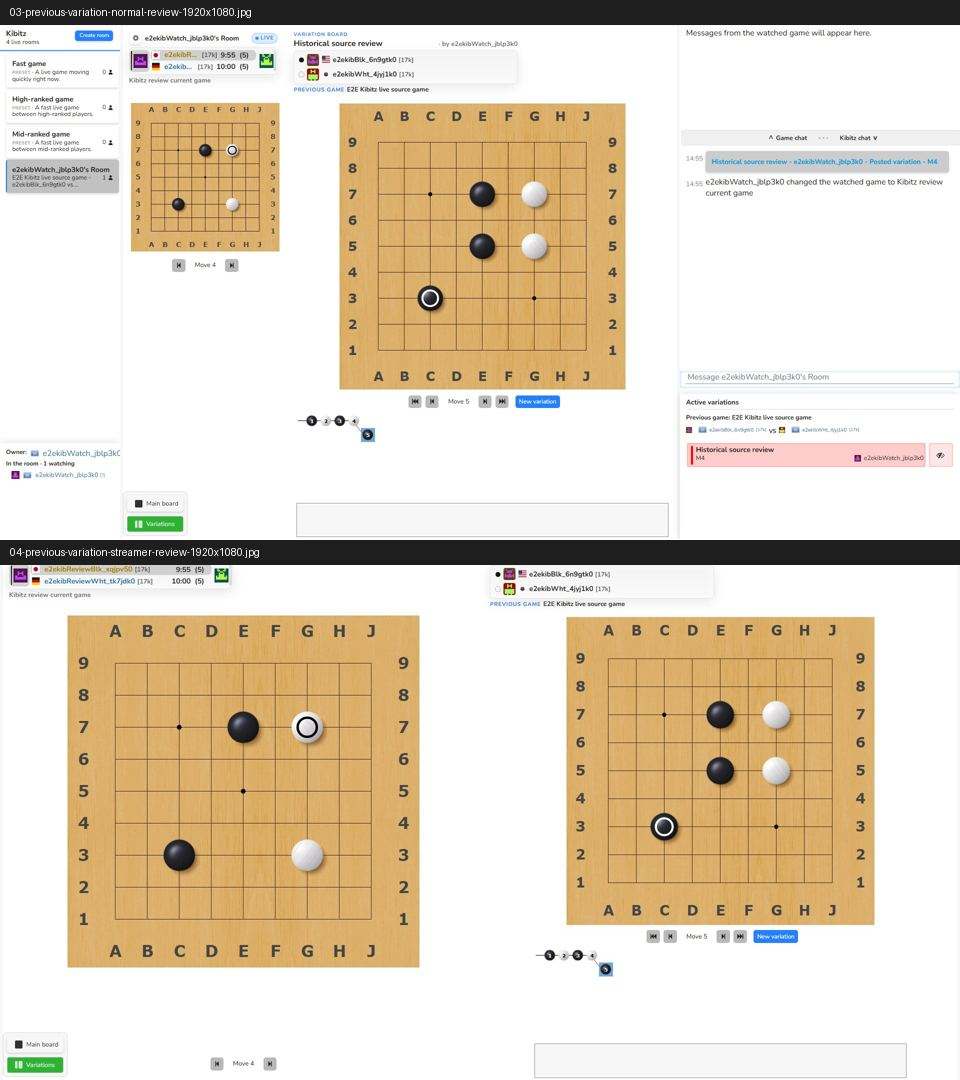
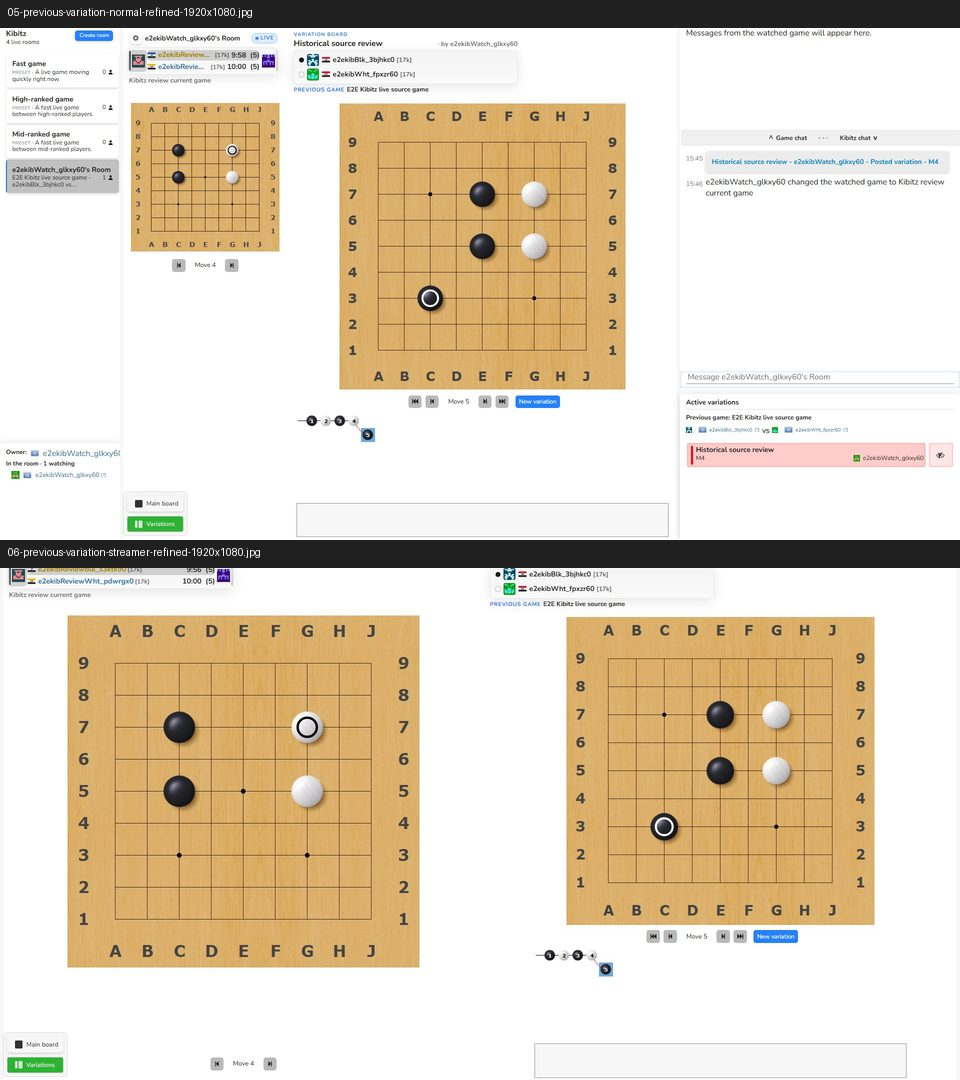
refine kibitz compact scoreboard spacing

diff --git a/src/views/Kibitz/KibitzDesktopMainGameScoreboard.css b/src/views/Kibitz/KibitzDesktopMainGameScoreboard.css
@@ -343,24 +343,44 @@
 }
 
 .KibitzDesktopMainGameScoreboard--compare .KibitzDesktopMainGameScoreboard-inner {
-    padding: 0.3rem 0.55rem;
+    column-gap: 0.28rem;
+    padding: 0.3rem 0.35rem;
     border-radius: 8px;
 }
 
 .KibitzDesktopMainGameScoreboard--compare .KibitzDesktopMainGameScoreboard-avatarButton,
 .KibitzDesktopMainGameScoreboard--compare .KibitzDesktopMainGameScoreboard-avatar,
 .KibitzDesktopMainGameScoreboard--compare .KibitzDesktopMainGameScoreboard-avatarImage {
-    height: 1.75rem;
-    width: 1.75rem;
+    height: 1.625rem;
+    width: 1.625rem;
 }
 
 .KibitzDesktopMainGameScoreboard--compare .KibitzDesktopMainGameScoreboard-avatarImage {
-    height: 1.75rem !important;
-    width: 1.75rem !important;
+    height: 1.625rem !important;
+    width: 1.625rem !important;
 }
 
 .KibitzDesktopMainGameScoreboard--compare .KibitzDesktopMainGameScoreboard-row {
+    column-gap: 0.25rem;
+    grid-template-columns: minmax(0, 1fr) auto;
     padding: 0.12rem 0;
+}
+
+.KibitzDesktopMainGameScoreboard--compare .KibitzDesktopMainGameScoreboard-rowGroup {
+    gap: 0.2rem;
+}
+
+.KibitzDesktopMainGameScoreboard--compare .KibitzDesktopMainGameScoreboard-player {
+    gap: 0.18rem;
+}
+
+.KibitzDesktopMainGameScoreboard--compare .KibitzDesktopMainGameScoreboard-playerFlag .flag {
+    margin-left: 0.05rem;
+    margin-right: 0.15rem;
+}
+
+.KibitzDesktopMainGameScoreboard--compare .KibitzDesktopMainGameScoreboard-playerIdentity {
+    gap: 0.16rem;
 }
 
 .KibitzDesktopMainGameScoreboard--compare .KibitzDesktopMainGameScoreboard-playerName {
@@ -368,7 +388,7 @@
 }
 
 .KibitzDesktopMainGameScoreboard--compare .KibitzDesktopMainGameScoreboard-playerRank {
-    font-size: 0.8rem;
+    font-size: 0.74rem;
 }
 
 .KibitzDesktopMainGameScoreboard--compare .KibitzDesktopMainGameScoreboard-clock {

diff --git a/src/views/Kibitz/KibitzDesktopCompareHeader.css b/src/views/Kibitz/KibitzDesktopCompareHeader.css
@@ -42,7 +42,7 @@
     display: flex;
     gap: 0.3rem;
     min-width: 0;
-    width: 100%;
+    width: min(100%, 28rem);
 }
 
 .KibitzDesktopCompareHeader-settingsButton {

diff --git a/docs/kibitz-header-design/scoreboard-reset/README.md b/docs/kibitz-header-design/scoreboard-reset/README.md
@@ -9,10 +9,11 @@ the shim was not committed.
 
 - Branch: `codex/kibitz-header-design`
 - Prototype head before clean captures: `b78ea465d1ab0c02b1448018e489e63d7b7c5f4f`
+- Refinement starting SHA: `c19d9cc0b22c553921555e6266bc221f6df3a141`
 - Frontend: local Vite at `http://127.0.0.1:8084`
 - Backend: beta API and websocket services (`OGS_BACKEND=BETA`)
 - Browser: authenticated Playwright Chromium
-- Route: `http://127.0.0.1:8084/kibitz/user-dfb2471b`
+- Route: `http://127.0.0.1:8084/kibitz/user-e128a213`
 - Viewport: `1920x1080`
 - State: created through the authenticated Kibitz e2e helpers with real player
   pages kept open so the current game clocks remained live during capture
@@ -20,12 +21,12 @@ the shim was not committed.
 
 ## Games and variation
 
-- Current game: `21248`, `Kibitz review current game`
-- Current-game players: `e2ekibReviewBlk_xqjpv50` vs `e2ekibReviewWht_tk7jdk0`
-- Previous source game: `21247`, `E2E Kibitz live source game`
-- Previous-game players: `e2ekibBlk_6n9gtk0` vs `e2ekibWht_4jyj1k0`
+- Current game: `21258`, `Kibitz review current game`
+- Current-game players: `e2ekibReviewBlk_s3ktk90` vs `e2ekibReviewWht_pdwrgx0`
+- Previous source game: `21257`, `E2E Kibitz live source game`
+- Previous-game players: `e2ekibBlk_3bjhkc0` vs `e2ekibWht_fpxzr60`
 - Variation title: `Historical source review`
-- Variation source: game `21247`, starting at move 4, with a real posted move
+- Variation source: game `21257`, starting at move 4, with a real posted move
   at `C3`
 
 The current game and source game were separate live games with different
@@ -35,13 +36,15 @@ state.
 
 ## Screenshots
 
-| File                                                  | State                                                                               |
-| ----------------------------------------------------- | ----------------------------------------------------------------------------------- |
-| `01-previous-variation-normal-1920x1080.jpg`          | Original reset capture before the review-only asset shim.                           |
-| `02-previous-variation-streamer-1920x1080.jpg`        | Original streamer capture before the review-only asset shim.                        |
-| `03-previous-variation-normal-review-1920x1080.jpg`   | Clean review capture; previous-game variation in normal mode.                       |
-| `04-previous-variation-streamer-review-1920x1080.jpg` | Clean review capture; the same variation with streamer mode and equal board tracks. |
-| `contact-sheet-scoreboard-reset.jpg`                  | Compressed contact sheet using the two clean review captures.                       |
+| File                                                   | State                                                                               |
+| ------------------------------------------------------ | ----------------------------------------------------------------------------------- |
+| `01-previous-variation-normal-1920x1080.jpg`           | Original reset capture before the review-only asset shim.                           |
+| `02-previous-variation-streamer-1920x1080.jpg`         | Original streamer capture before the review-only asset shim.                        |
+| `03-previous-variation-normal-review-1920x1080.jpg`    | Clean review capture; previous-game variation in normal mode.                       |
+| `04-previous-variation-streamer-review-1920x1080.jpg`  | Clean review capture; the same variation with streamer mode and equal board tracks. |
+| `05-previous-variation-normal-refined-1920x1080.jpg`   | Refined capture; bounded live header and tighter compact player spacing.            |
+| `06-previous-variation-streamer-refined-1920x1080.jpg` | Refined streamer capture; the live cluster remains bounded at 28rem.                |
+| `contact-sheet-scoreboard-reset.jpg`                   | Compressed contact sheet using the two refined review captures.                     |
 
 All screenshots contain `KibitzInner`, `KibitzRoomStage`, `KibitzBoard`,
 `KibitzDesktopCompareHeader`, the live compact scoreboard, the static source
@@ -71,7 +74,7 @@ There is no avatar, flag, country, or fallback shim in production code.
 - The static historical player card is a sibling presentation component rather
   than a live scoreboard instance, so it cannot accidentally display clocks or
   controller-driven state.
-- Compare cards are bounded at `28rem`; the live card uses `1.75rem` avatars
+- Compare cards are bounded at `28rem`; the live card uses `1.625rem` avatars
   and the static source card uses `1.5rem` avatars.
 - Beta test accounts use generated usernames and the beta avatar service may
   display its normal image-loading fallback in a restricted capture
